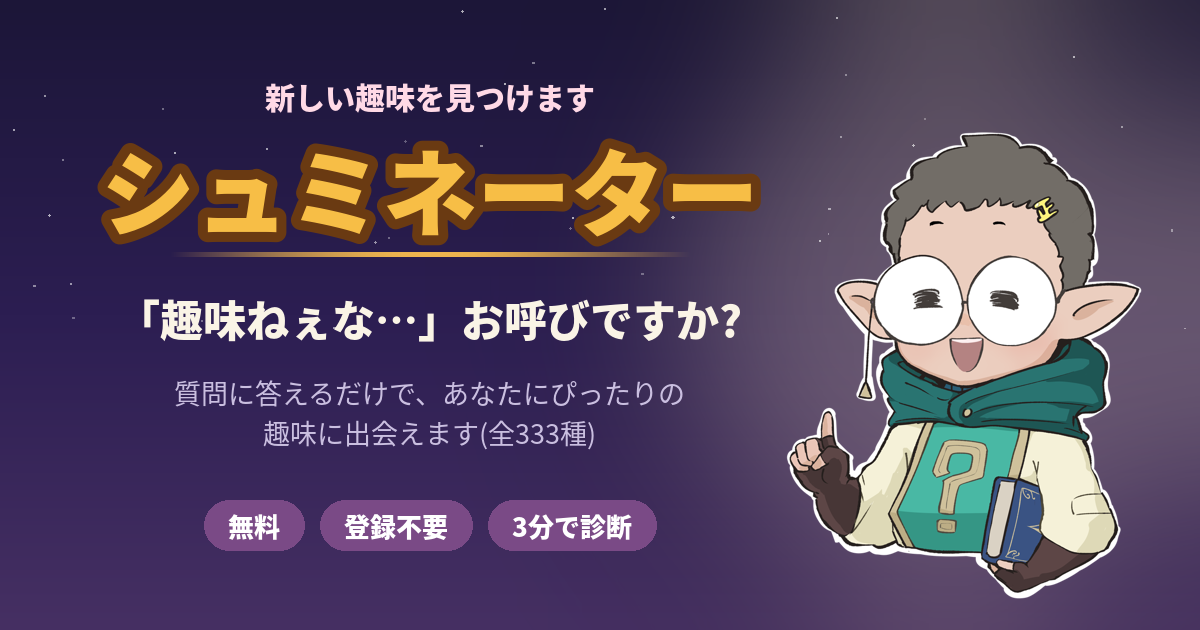
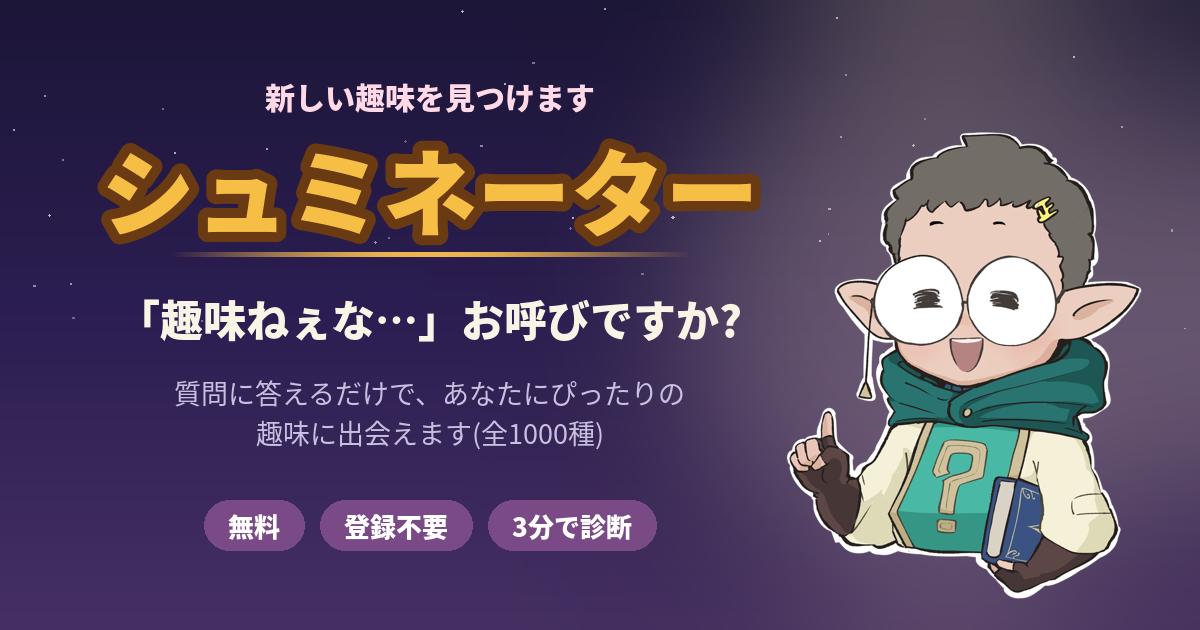
Add files via upload

Changed region(s): [[0.2158, 0.6635, 0.4933, 0.7238]]

diff --git a/solo-hobbies.html b/solo-hobbies.html
@@ -11,7 +11,7 @@
 <meta property="og:type" content="article">
 <meta property="og:title" content="一人でできる趣味30選｜家でも外でも楽しめるおすすめを厳選【趣味診断つき】">
 <meta property="og:description" content="一人で楽しめる趣味を探している人へ。家の中で静かにできるものから外で一人を満喫できるものまで、国家資格キャリアコンサルタントが30種を厳選して紹介します。">
-<meta property="og:image" content="https://doushimasho.github.io/shuminator/ogp.png?v=2">
+<meta property="og:image" content="https://doushimasho.github.io/shuminator/ogp.png?v=3">
 <meta property="og:url" content="https://doushimasho.github.io/shuminator/solo-hobbies.html">
 <meta property="og:site_name" content="シュミネーター">
 <script data-goatcounter="https://shuminator.goatcounter.com/count" async src="//gc.zgo.at/count.js"></script>
@@ -50,44 +50,45 @@ footer a{color:var(--sakura)}
 <h1>一人でできる趣味30選｜家でも外でも、ひとりを楽しむおすすめ</h1>
 <p class="lead">「一人でできる趣味が欲しい」「人と関わらずに没頭できるものを探している」——そんな人へ。一人の時間を豊かにする趣味を、静かに集中できるものを中心に厳選しました。</p>
 <p class="byline">監修:導師真ショウ(国家資格キャリアコンサルタント)。キャリア相談・不登校支援の現場での経験をもとに執筆しています。</p>
-<a class="cta" href="index.html">▶ あなたに眠っている趣味を診断する<small>無料・登録不要・333種から3分で診断</small></a>
+<a class="cta" href="index.html">▶ あなたに眠っている趣味を診断する<small>無料・登録不要・1000種から3分で診断</small></a>
 <p>一人でできる趣味の良いところは、誰かの予定に合わせる必要がなく、自分のペースで深められることです。始めるハードルも低く、思い立った日から取りかかれます。ここでは「一人で静かに楽しめる」という視点で選んだ趣味を紹介します。</p>
 <h2>一人で楽しめるおすすめの趣味</h2>
-<div class="hobby"><b>ミニ盆栽</b><span>手のひらサイズの小宇宙を育てる。数年単位で姿が変わっていく、静かで奥深い世界。</span></div>
-<div class="hobby"><b>苔テラリウム</b><span>ガラス容器の中に苔の森をつくる。世話は霧吹きだけ、机の上に置ける小さな自然。</span></div>
-<div class="hobby"><b>低山ハイキング</b><span>往復2〜3時間の低い山をのんびり登る。運動・自然・達成感が一度に手に入る。</span></div>
-<div class="hobby"><b>ソロキャンプ</b><span>ひとり焚き火を眺める贅沢。道具を少しずつ揃える過程そのものも楽しい。</span></div>
-<div class="hobby"><b>星空観察</b><span>星座アプリと椅子があれば今夜から始められる。宇宙の広さに悩みが小さくなる趣味。</span></div>
-<div class="hobby"><b>渓流釣り</b><span>山あいの川で魚と知恵比べ。自然の中に立つ時間そのものが癒しになる。</span></div>
-<div class="hobby"><b>雲観察</b><span>雲の名前を覚えると空が読めるようになる。通勤路が観察フィールドに変わる趣味。</span></div>
-<div class="hobby"><b>純喫茶めぐり</b><span>昭和の空気が残る喫茶店を訪ね歩く。クリームソーダとナポリタンの世界。</span></div>
-<div class="hobby"><b>青春18きっぷ旅</b><span>鈍行列車でどこまでも。車窓と途中下車を楽しむ、時間を贅沢に使う旅。</span></div>
-<div class="hobby"><b>サウナめぐり</b><span>全国のサウナと水風呂を開拓し「ととのい」を極める。心身のリセット習慣。</span></div>
-<div class="hobby"><b>離島めぐり</b><span>日本には400以上の有人離島がある。島ごとの文化と時間の流れを味わう旅。</span></div>
-<div class="hobby"><b>仏像鑑賞</b><span>如来と菩薩の見分けから始まる仏像の世界。お寺めぐりに「観る軸」が生まれる。</span></div>
-<div class="hobby"><b>金継ぎ</b><span>割れた器を漆と金で継いで再生させる。壊れた物が前より美しくなる日本の美学。</span></div>
-<div class="hobby"><b>刺し子</b><span>一針一針の幾何学模様が布に浮かぶ。無心になれる日本の伝統手芸。</span></div>
-<div class="hobby"><b>かぎ針編み</b><span>毛糸と針1本でコースターからぬいぐるみまで。動画を見ながら始められる。</span></div>
-<div class="hobby"><b>木のスプーン削り</b><span>一本の木からスプーンを削り出す。木くずの香りと無心の時間がたまらない。</span></div>
-<div class="hobby"><b>キャンドルづくり</b><span>蝋を溶かして色と香りをデザインする。灯した時の揺らぎまでが作品。</span></div>
-<div class="hobby"><b>梅仕事</b><span>初夏に梅を漬け、一年かけて味わう。季節の手仕事という豊かな時間。</span></div>
-<div class="hobby"><b>紅茶飲み比べ</b><span>産地と茶葉で世界一周。丁寧に淹れる時間そのものが暮らしを整える。</span></div>
-<div class="hobby"><b>中国茶</b><span>小さな茶壺で何煎も味わう茶藝の世界。一煎ごとに変わる香りの旅。</span></div>
-<div class="hobby"><b>ハンドドリップ探求</b><span>豆・挽き目・湯温・注ぎ方。変数を一つずつ検証する朝の実験。「今日の一杯」が整う日は一日が整う。</span></div>
-<div class="hobby"><b>日本茶を淹れる</b><span>急須で淹れた煎茶の甘みは、ペットボトルとは別の飲み物。湯温60度の世界を知ると戻れない。</span></div>
-<div class="hobby"><b>ハンドパン</b><span>宇宙的な音色の金属打楽器。楽譜が読めなくても叩けば「それっぽく」なる。</span></div>
-<div class="hobby"><b>カリンバ</b><span>親指ではじくオルゴールのような楽器。数千円で始められて癒し効果は絶大。</span></div>
-<div class="hobby"><b>水彩スケッチ</b><span>散歩先の風景を小さなスケッチブックに。上手さより「その場で描く」楽しさ。</span></div>
-<div class="hobby"><b>シンギングボウル</b><span>倍音の波に体ごと浸る音の瞑想。鳴らした瞬間、部屋の空気が変わる。</span></div>
-<div class="hobby"><b>スローライフゲーム</b><span>あつまれ どうぶつの森、牧場物語、Stardew Valley。畑を耕し、釣りをし、住人と暮らす癒しの箱庭。現実の疲れに効く処方箋。</span></div>
-<div class="hobby"><b>弓道</b><span>静寂の中で的と向き合う武道。姿勢と呼吸が整い、精神面への効果も大きい。</span></div>
-<div class="hobby"><b>ヨガ</b><span>呼吸と姿勢を整える心身のメンテナンス。朝5分から人生が変わる人も。</span></div>
-<div class="hobby"><b>太極拳</b><span>ゆっくり動く中国武術。運動が苦手でも始められ、続けるほど奥深い。</span></div>
-<a class="cta" href="index.html">▶ 診断で「あなたにぴったりの趣味」を見つける<small>質問に答えるだけ・3分・333種から神様が見抜きます</small></a>
-<h2>自分に一番合う「一人の趣味」を見つけるには</h2><p>ここで紹介したのは一例です。同じ「一人でできる」でも、育てる系が好きな人、集める系が好きな人、体を動かしたい人で、しっくりくる趣味は変わります。質問に答えるだけの趣味診断なら、あなたの「魅力の核」に合った一つを333種の中から見つけられます。</p>
+<div class="hobby"><a href="hobby/1.html" style="text-decoration:none"><b>ミニ盆栽</b></a><span>手のひらサイズの小宇宙を育てる。数年単位で姿が変わっていく、静かで奥深い世界。</span></div>
+<div class="hobby"><a href="hobby/2.html" style="text-decoration:none"><b>苔テラリウム</b></a><span>ガラス容器の中に苔の森をつくる。世話は霧吹きだけ、机の上に置ける小さな自然。</span></div>
+<div class="hobby"><a href="hobby/3.html" style="text-decoration:none"><b>低山ハイキング</b></a><span>往復2〜3時間の低い山をのんびり登る。運動・自然・達成感が一度に手に入る。</span></div>
+<div class="hobby"><a href="hobby/5.html" style="text-decoration:none"><b>ソロキャンプ</b></a><span>ひとり焚き火を眺める贅沢。道具を少しずつ揃える過程そのものも楽しい。</span></div>
+<div class="hobby"><a href="hobby/6.html" style="text-decoration:none"><b>星空観察</b></a><span>星座アプリと椅子があれば今夜から始められる。宇宙の広さに悩みが小さくなる趣味。</span></div>
+<div class="hobby"><a href="hobby/8.html" style="text-decoration:none"><b>渓流釣り</b></a><span>山あいの川で魚と知恵比べ。自然の中に立つ時間そのものが癒しになる。</span></div>
+<div class="hobby"><a href="hobby/23.html" style="text-decoration:none"><b>雲観察</b></a><span>雲の名前を覚えると空が読めるようになる。通勤路が観察フィールドに変わる趣味。</span></div>
+<div class="hobby"><a href="hobby/28.html" style="text-decoration:none"><b>純喫茶めぐり</b></a><span>昭和の空気が残る喫茶店を訪ね歩く。クリームソーダとナポリタンの世界。</span></div>
+<div class="hobby"><a href="hobby/30.html" style="text-decoration:none"><b>青春18きっぷ旅</b></a><span>鈍行列車でどこまでも。車窓と途中下車を楽しむ、時間を贅沢に使う旅。</span></div>
+<div class="hobby"><a href="hobby/32.html" style="text-decoration:none"><b>サウナめぐり</b></a><span>全国のサウナと水風呂を開拓し「ととのい」を極める。心身のリセット習慣。</span></div>
+<div class="hobby"><a href="hobby/34.html" style="text-decoration:none"><b>離島めぐり</b></a><span>日本には400以上の有人離島がある。島ごとの文化と時間の流れを味わう旅。</span></div>
+<div class="hobby"><a href="hobby/38.html" style="text-decoration:none"><b>仏像鑑賞</b></a><span>如来と菩薩の見分けから始まる仏像の世界。お寺めぐりに「観る軸」が生まれる。</span></div>
+<div class="hobby"><a href="hobby/47.html" style="text-decoration:none"><b>金継ぎ</b></a><span>割れた器を漆と金で継いで再生させる。壊れた物が前より美しくなる日本の美学。</span></div>
+<div class="hobby"><a href="hobby/51.html" style="text-decoration:none"><b>刺し子</b></a><span>一針一針の幾何学模様が布に浮かぶ。無心になれる日本の伝統手芸。</span></div>
+<div class="hobby"><a href="hobby/52.html" style="text-decoration:none"><b>かぎ針編み</b></a><span>毛糸と針1本でコースターからぬいぐるみまで。動画を見ながら始められる。</span></div>
+<div class="hobby"><a href="hobby/53.html" style="text-decoration:none"><b>木のスプーン削り</b></a><span>一本の木からスプーンを削り出す。木くずの香りと無心の時間がたまらない。</span></div>
+<div class="hobby"><a href="hobby/55.html" style="text-decoration:none"><b>キャンドルづくり</b></a><span>蝋を溶かして色と香りをデザインする。灯した時の揺らぎまでが作品。</span></div>
+<div class="hobby"><a href="hobby/67.html" style="text-decoration:none"><b>梅仕事</b></a><span>初夏に梅を漬け、一年かけて味わう。季節の手仕事という豊かな時間。</span></div>
+<div class="hobby"><a href="hobby/72.html" style="text-decoration:none"><b>紅茶飲み比べ</b></a><span>産地と茶葉で世界一周。丁寧に淹れる時間そのものが暮らしを整える。</span></div>
+<div class="hobby"><a href="hobby/75.html" style="text-decoration:none"><b>中国茶</b></a><span>小さな茶壺で何煎も味わう茶藝の世界。一煎ごとに変わる香りの旅。</span></div>
+<div class="hobby"><a href="hobby/88.html" style="text-decoration:none"><b>ハンドドリップ探求</b></a><span>豆・挽き目・湯温・注ぎ方。変数を一つずつ検証する朝の実験。「今日の一杯」が整う日は一日が整う。</span></div>
+<div class="hobby"><a href="hobby/89.html" style="text-decoration:none"><b>日本茶を淹れる</b></a><span>急須で淹れた煎茶の甘みは、ペットボトルとは別の飲み物。湯温60度の世界を知ると戻れない。</span></div>
+<div class="hobby"><a href="hobby/94.html" style="text-decoration:none"><b>ハンドパン</b></a><span>宇宙的な音色の金属打楽器。楽譜が読めなくても叩けば「それっぽく」なる。</span></div>
+<div class="hobby"><a href="hobby/95.html" style="text-decoration:none"><b>カリンバ</b></a><span>親指ではじくオルゴールのような楽器。数千円で始められて癒し効果は絶大。</span></div>
+<div class="hobby"><a href="hobby/100.html" style="text-decoration:none"><b>水彩スケッチ</b></a><span>散歩先の風景を小さなスケッチブックに。上手さより「その場で描く」楽しさ。</span></div>
+<div class="hobby"><a href="hobby/104.html" style="text-decoration:none"><b>シンギングボウル</b></a><span>倍音の波に体ごと浸る音の瞑想。鳴らした瞬間、部屋の空気が変わる。</span></div>
+<div class="hobby"><a href="hobby/124.html" style="text-decoration:none"><b>スローライフゲーム</b></a><span>あつまれ どうぶつの森、牧場物語、Stardew Valley。畑を耕し、釣りをし、住人と暮らす癒しの箱庭。現実の疲れに効く処方箋。</span></div>
+<div class="hobby"><a href="hobby/178.html" style="text-decoration:none"><b>弓道</b></a><span>静寂の中で的と向き合う武道。姿勢と呼吸が整い、精神面への効果も大きい。</span></div>
+<div class="hobby"><a href="hobby/180.html" style="text-decoration:none"><b>ヨガ</b></a><span>呼吸と姿勢を整える心身のメンテナンス。朝5分から人生が変わる人も。</span></div>
+<div class="hobby"><a href="hobby/181.html" style="text-decoration:none"><b>太極拳</b></a><span>ゆっくり動く中国武術。運動が苦手でも始められ、続けるほど奥深い。</span></div>
+<a class="cta" href="zukan.html">▶ 全1000種の趣味図鑑を見る<small>20ジャンル・検索つき。眺めているだけでも面白い一覧です</small></a>
+<a class="cta" href="index.html">▶ 診断で「あなたにぴったりの趣味」を見つける<small>質問に答えるだけ・3分・1000種から神様が見抜きます</small></a>
+<h2>自分に一番合う「一人の趣味」を見つけるには</h2><p>ここで紹介したのは一例です。同じ「一人でできる」でも、育てる系が好きな人、集める系が好きな人、体を動かしたい人で、しっくりくる趣味は変わります。質問に答えるだけの趣味診断なら、あなたの「魅力の核」に合った一つを1000種の中から見つけられます。</p>
 <footer>
-<p>この記事は趣味診断ゲーム「<a href="index.html">シュミネーター</a>」が提供しています。<br>質問に答えるだけで、あなたに眠る趣味を333種から見抜きます(無料・登録不要)。</p>
-<p class="rel">関連記事:<a href="hobby-finder.html">趣味の見つけ方｜「趣味がない」を抜け出す5つの方法</a></p>
+<p>この記事は趣味診断ゲーム「<a href="index.html">シュミネーター</a>」が提供しています。<br>質問に答えるだけで、あなたに眠る趣味を1000種から見抜きます(無料・登録不要)。</p>
+<p class="rel">関連:<a href="zukan.html">全1000種の趣味図鑑</a> ・ <a href="hobby-finder.html">趣味の見つけ方｜「趣味がない」を抜け出す5つの方法</a></p>
 <p style="margin-top:14px">監修:導師真ショウ ・ <a href="https://www.youtube.com/@doushimasho" target="_blank" rel="noopener">YouTube</a> ・ <a href="https://x.com/doushima_sho" target="_blank" rel="noopener">X</a></p>
 </footer>
 </div>

diff --git a/indoor-hobbies.html b/indoor-hobbies.html
@@ -11,7 +11,7 @@
 <meta property="og:type" content="article">
 <meta property="og:title" content="インドアの趣味30選｜家の中で楽しめるおすすめを厳選【趣味診断つき】">
 <meta property="og:description" content="家の中でできるインドアな趣味を探している人へ。ものづくり、観る、集めるなど、天気や季節に関係なく楽しめる趣味を国家資格キャリアコンサルタントが厳選して紹介します。">
-<meta property="og:image" content="https://doushimasho.github.io/shuminator/ogp.png?v=2">
+<meta property="og:image" content="https://doushimasho.github.io/shuminator/ogp.png?v=3">
 <meta property="og:url" content="https://doushimasho.github.io/shuminator/indoor-hobbies.html">
 <meta property="og:site_name" content="シュミネーター">
 <script data-goatcounter="https://shuminator.goatcounter.com/count" async src="//gc.zgo.at/count.js"></script>
@@ -50,44 +50,45 @@ footer a{color:var(--sakura)}
 <h1>インドアの趣味30選｜家の中で楽しめるおすすめ</h1>
 <p class="lead">「家で楽しめる趣味が欲しい」「外に出ずに没頭できるものを探している」——そんな人へ。天気や季節に左右されず、家の中で楽しめるインドアな趣味を厳選しました。</p>
 <p class="byline">監修:導師真ショウ(国家資格キャリアコンサルタント)。キャリア相談・不登校支援の現場での経験をもとに執筆しています。</p>
-<a class="cta" href="index.html">▶ あなたに眠っている趣味を診断する<small>無料・登録不要・333種から3分で診断</small></a>
+<a class="cta" href="index.html">▶ あなたに眠っている趣味を診断する<small>無料・登録不要・1000種から3分で診断</small></a>
 <p>インドアな趣味は、天気や季節に関係なく、いつでも自分のペースで楽しめるのが魅力です。ものづくり系、鑑賞系、集める系など、家の中でも世界は無限に広がります。</p>
 <h2>家の中で楽しめるおすすめの趣味</h2>
-<div class="hobby"><b>エアプランツ</b><span>土がいらない不思議な植物。流木や壁に飾って、部屋を小さなジャングルに。</span></div>
-<div class="hobby"><b>サウナめぐり</b><span>全国のサウナと水風呂を開拓し「ととのい」を極める。心身のリセット習慣。</span></div>
-<div class="hobby"><b>工場夜景鑑賞</b><span>光る配管とプラントは巨大なSF世界。撮影スポット探しから楽しい。</span></div>
-<div class="hobby"><b>商店街食べ歩き</b><span>昔ながらの商店街でコロッケや甘味を食べ歩く。安くて幸せな週末の冒険。</span></div>
-<div class="hobby"><b>古本屋めぐり</b><span>棚の背表紙をたどる宝探し。一期一会の一冊との出会いが人生を変えることも。</span></div>
-<div class="hobby"><b>美術館めぐり</b><span>一枚の絵の前で立ち尽くす時間。企画展を追いかけると一年中楽しめる。</span></div>
-<div class="hobby"><b>仏像鑑賞</b><span>如来と菩薩の見分けから始まる仏像の世界。お寺めぐりに「観る軸」が生まれる。</span></div>
-<div class="hobby"><b>能・歌舞伎鑑賞</b><span>一度観ると価値観が変わる日本の古典芸能。初心者向けの一幕見席なら数千円から。</span></div>
-<div class="hobby"><b>名画座めぐり</b><span>旧作を大スクリーンで観られる街の映画館。二本立て1500円の贅沢な休日。</span></div>
-<div class="hobby"><b>レジンアクセサリー</b><span>透明樹脂に花やラメを閉じ込める。作った作品はフリマアプリで販売もできる。</span></div>
-<div class="hobby"><b>革小物づくり</b><span>本革を裁ち、縫い、育てる。使うほど味が出る一生モノを自分の手で。</span></div>
-<div class="hobby"><b>消しゴムはんこ</b><span>彫刻刀ひとつで始められる小さな版画。年賀状や手帳がぐっと楽しくなる。</span></div>
-<div class="hobby"><b>羊毛フェルト</b><span>羊毛をチクチク刺して動物を形づくる。もふもふの生き物を生み出す喜び。</span></div>
-<div class="hobby"><b>手びねり陶芸</b><span>ろくろがなくても粘土と手で器は作れる。自作の茶碗で飲むお茶は格別。</span></div>
-<div class="hobby"><b>金継ぎ</b><span>割れた器を漆と金で継いで再生させる。壊れた物が前より美しくなる日本の美学。</span></div>
-<div class="hobby"><b>ミニチュアフード</b><span>粘土で本物そっくりの小さな食べ物を作る。SNSでの人気も高いジャンル。</span></div>
-<div class="hobby"><b>ガンプラ</b><span>素組みだけでも十分カッコいい。塗装・改造と深みは無限、大人が本気になれる趣味。</span></div>
-<div class="hobby"><b>ジオラマ制作</b><span>小さな世界の情景を丸ごと作る。鉄道、戦場、日常の路地裏──題材は自由。</span></div>
-<div class="hobby"><b>刺し子</b><span>一針一針の幾何学模様が布に浮かぶ。無心になれる日本の伝統手芸。</span></div>
-<div class="hobby"><b>かぎ針編み</b><span>毛糸と針1本でコースターからぬいぐるみまで。動画を見ながら始められる。</span></div>
-<div class="hobby"><b>ハーバリウム</b><span>ガラス瓶の中に花を閉じ込めるインテリア。プレゼントにも喜ばれる。</span></div>
-<div class="hobby"><b>キャンドルづくり</b><span>蝋を溶かして色と香りをデザインする。灯した時の揺らぎまでが作品。</span></div>
-<div class="hobby"><b>複雑系折り紙</b><span>一枚の正方形から龍や昆虫を折り出す数学的アート。設計図の世界は超本格派。</span></div>
-<div class="hobby"><b>ボードゲーム会</b><span>世界には数万種のボドゲがある。友人と集まる口実として最強の趣味。</span></div>
-<div class="hobby"><b>謎解きゲーム</b><span>リアル脱出や持ち帰り謎。ひらめいた瞬間の脳汁は一度知ると戻れない。</span></div>
-<div class="hobby"><b>フィルムカメラ</b><span>撮れる枚数に限りがあるからこそ一枚が真剣になる。現像を待つ時間も含めて趣味。</span></div>
-<div class="hobby"><b>鉄道模型</b><span>Nゲージの車両と情景を集めて走らせる。部屋に自分だけの鉄道会社をつくる趣味。</span></div>
-<div class="hobby"><b>ドールハウス</b><span>小さな家具と部屋を組み立てる、大人の秘密基地づくり。明かりを灯した瞬間が最高。</span></div>
-<div class="hobby"><b>ぬか床づくり</b><span>毎日かき混ぜて育てる「生きた漬物」。自分だけの味に育っていく相棒的趣味。</span></div>
-<div class="hobby"><b>自家焙煎コーヒー</b><span>生豆を自分で煎ると、コーヒーは別の飲み物になる。香りの実験室を台所に。</span></div>
-<a class="cta" href="index.html">▶ 診断で「あなたにぴったりの趣味」を見つける<small>質問に答えるだけ・3分・333種から神様が見抜きます</small></a>
-<h2>自分に合う「インドア趣味」を見つけるには</h2><p>インドアの趣味と一口に言っても、手を動かして作るのが好きな人、じっくり観るのが好きな人、コレクションを楽しみたい人で、向いているものは違います。趣味診断で、あなたにぴったりの一つを333種から見つけてみてください。</p>
+<div class="hobby"><a href="hobby/18.html" style="text-decoration:none"><b>エアプランツ</b></a><span>土がいらない不思議な植物。流木や壁に飾って、部屋を小さなジャングルに。</span></div>
+<div class="hobby"><a href="hobby/32.html" style="text-decoration:none"><b>サウナめぐり</b></a><span>全国のサウナと水風呂を開拓し「ととのい」を極める。心身のリセット習慣。</span></div>
+<div class="hobby"><a href="hobby/33.html" style="text-decoration:none"><b>工場夜景鑑賞</b></a><span>光る配管とプラントは巨大なSF世界。撮影スポット探しから楽しい。</span></div>
+<div class="hobby"><a href="hobby/35.html" style="text-decoration:none"><b>商店街食べ歩き</b></a><span>昔ながらの商店街でコロッケや甘味を食べ歩く。安くて幸せな週末の冒険。</span></div>
+<div class="hobby"><a href="hobby/36.html" style="text-decoration:none"><b>古本屋めぐり</b></a><span>棚の背表紙をたどる宝探し。一期一会の一冊との出会いが人生を変えることも。</span></div>
+<div class="hobby"><a href="hobby/37.html" style="text-decoration:none"><b>美術館めぐり</b></a><span>一枚の絵の前で立ち尽くす時間。企画展を追いかけると一年中楽しめる。</span></div>
+<div class="hobby"><a href="hobby/38.html" style="text-decoration:none"><b>仏像鑑賞</b></a><span>如来と菩薩の見分けから始まる仏像の世界。お寺めぐりに「観る軸」が生まれる。</span></div>
+<div class="hobby"><a href="hobby/39.html" style="text-decoration:none"><b>能・歌舞伎鑑賞</b></a><span>一度観ると価値観が変わる日本の古典芸能。初心者向けの一幕見席なら数千円から。</span></div>
+<div class="hobby"><a href="hobby/40.html" style="text-decoration:none"><b>名画座めぐり</b></a><span>旧作を大スクリーンで観られる街の映画館。二本立て1500円の贅沢な休日。</span></div>
+<div class="hobby"><a href="hobby/42.html" style="text-decoration:none"><b>レジンアクセサリー</b></a><span>透明樹脂に花やラメを閉じ込める。作った作品はフリマアプリで販売もできる。</span></div>
+<div class="hobby"><a href="hobby/43.html" style="text-decoration:none"><b>革小物づくり</b></a><span>本革を裁ち、縫い、育てる。使うほど味が出る一生モノを自分の手で。</span></div>
+<div class="hobby"><a href="hobby/44.html" style="text-decoration:none"><b>消しゴムはんこ</b></a><span>彫刻刀ひとつで始められる小さな版画。年賀状や手帳がぐっと楽しくなる。</span></div>
+<div class="hobby"><a href="hobby/45.html" style="text-decoration:none"><b>羊毛フェルト</b></a><span>羊毛をチクチク刺して動物を形づくる。もふもふの生き物を生み出す喜び。</span></div>
+<div class="hobby"><a href="hobby/46.html" style="text-decoration:none"><b>手びねり陶芸</b></a><span>ろくろがなくても粘土と手で器は作れる。自作の茶碗で飲むお茶は格別。</span></div>
+<div class="hobby"><a href="hobby/47.html" style="text-decoration:none"><b>金継ぎ</b></a><span>割れた器を漆と金で継いで再生させる。壊れた物が前より美しくなる日本の美学。</span></div>
+<div class="hobby"><a href="hobby/48.html" style="text-decoration:none"><b>ミニチュアフード</b></a><span>粘土で本物そっくりの小さな食べ物を作る。SNSでの人気も高いジャンル。</span></div>
+<div class="hobby"><a href="hobby/49.html" style="text-decoration:none"><b>ガンプラ</b></a><span>素組みだけでも十分カッコいい。塗装・改造と深みは無限、大人が本気になれる趣味。</span></div>
+<div class="hobby"><a href="hobby/50.html" style="text-decoration:none"><b>ジオラマ制作</b></a><span>小さな世界の情景を丸ごと作る。鉄道、戦場、日常の路地裏──題材は自由。</span></div>
+<div class="hobby"><a href="hobby/51.html" style="text-decoration:none"><b>刺し子</b></a><span>一針一針の幾何学模様が布に浮かぶ。無心になれる日本の伝統手芸。</span></div>
+<div class="hobby"><a href="hobby/52.html" style="text-decoration:none"><b>かぎ針編み</b></a><span>毛糸と針1本でコースターからぬいぐるみまで。動画を見ながら始められる。</span></div>
+<div class="hobby"><a href="hobby/54.html" style="text-decoration:none"><b>ハーバリウム</b></a><span>ガラス瓶の中に花を閉じ込めるインテリア。プレゼントにも喜ばれる。</span></div>
+<div class="hobby"><a href="hobby/55.html" style="text-decoration:none"><b>キャンドルづくり</b></a><span>蝋を溶かして色と香りをデザインする。灯した時の揺らぎまでが作品。</span></div>
+<div class="hobby"><a href="hobby/56.html" style="text-decoration:none"><b>複雑系折り紙</b></a><span>一枚の正方形から龍や昆虫を折り出す数学的アート。設計図の世界は超本格派。</span></div>
+<div class="hobby"><a href="hobby/57.html" style="text-decoration:none"><b>ボードゲーム会</b></a><span>世界には数万種のボドゲがある。友人と集まる口実として最強の趣味。</span></div>
+<div class="hobby"><a href="hobby/58.html" style="text-decoration:none"><b>謎解きゲーム</b></a><span>リアル脱出や持ち帰り謎。ひらめいた瞬間の脳汁は一度知ると戻れない。</span></div>
+<div class="hobby"><a href="hobby/59.html" style="text-decoration:none"><b>フィルムカメラ</b></a><span>撮れる枚数に限りがあるからこそ一枚が真剣になる。現像を待つ時間も含めて趣味。</span></div>
+<div class="hobby"><a href="hobby/60.html" style="text-decoration:none"><b>鉄道模型</b></a><span>Nゲージの車両と情景を集めて走らせる。部屋に自分だけの鉄道会社をつくる趣味。</span></div>
+<div class="hobby"><a href="hobby/61.html" style="text-decoration:none"><b>ドールハウス</b></a><span>小さな家具と部屋を組み立てる、大人の秘密基地づくり。明かりを灯した瞬間が最高。</span></div>
+<div class="hobby"><a href="hobby/62.html" style="text-decoration:none"><b>ぬか床づくり</b></a><span>毎日かき混ぜて育てる「生きた漬物」。自分だけの味に育っていく相棒的趣味。</span></div>
+<div class="hobby"><a href="hobby/63.html" style="text-decoration:none"><b>自家焙煎コーヒー</b></a><span>生豆を自分で煎ると、コーヒーは別の飲み物になる。香りの実験室を台所に。</span></div>
+<a class="cta" href="zukan.html">▶ 全1000種の趣味図鑑を見る<small>20ジャンル・検索つき。眺めているだけでも面白い一覧です</small></a>
+<a class="cta" href="index.html">▶ 診断で「あなたにぴったりの趣味」を見つける<small>質問に答えるだけ・3分・1000種から神様が見抜きます</small></a>
+<h2>自分に合う「インドア趣味」を見つけるには</h2><p>インドアの趣味と一口に言っても、手を動かして作るのが好きな人、じっくり観るのが好きな人、コレクションを楽しみたい人で、向いているものは違います。趣味診断で、あなたにぴったりの一つを1000種から見つけてみてください。</p>
 <footer>
-<p>この記事は趣味診断ゲーム「<a href="index.html">シュミネーター</a>」が提供しています。<br>質問に答えるだけで、あなたに眠る趣味を333種から見抜きます(無料・登録不要)。</p>
-<p class="rel">関連記事:<a href="hobby-finder.html">趣味の見つけ方｜「趣味がない」を抜け出す5つの方法</a></p>
+<p>この記事は趣味診断ゲーム「<a href="index.html">シュミネーター</a>」が提供しています。<br>質問に答えるだけで、あなたに眠る趣味を1000種から見抜きます(無料・登録不要)。</p>
+<p class="rel">関連:<a href="zukan.html">全1000種の趣味図鑑</a> ・ <a href="hobby-finder.html">趣味の見つけ方｜「趣味がない」を抜け出す5つの方法</a></p>
 <p style="margin-top:14px">監修:導師真ショウ ・ <a href="https://www.youtube.com/@doushimasho" target="_blank" rel="noopener">YouTube</a> ・ <a href="https://x.com/doushima_sho" target="_blank" rel="noopener">X</a></p>
 </footer>
 </div>

diff --git a/hobby-finder.html b/hobby-finder.html
@@ -12,7 +12,7 @@
 <meta property="og:type" content="article">
 <meta property="og:title" content="趣味の見つけ方｜「趣味がない」を抜け出す5つの方法【キャリアコンサルタント監修】">
 <meta property="og:description" content="「趣味がない」を抜け出すための、趣味が見つからない理由と5つの具体的な見つけ方。国家資格キャリアコンサルタントが解説します。">
-<meta property="og:image" content="https://doushimasho.github.io/shuminator/ogp.png?v=2">
+<meta property="og:image" content="https://doushimasho.github.io/shuminator/ogp.png?v=3">
 <meta property="og:url" content="https://doushimasho.github.io/shuminator/hobby-finder.html">
 <meta property="og:site_name" content="シュミネーター">
 <meta property="og:locale" content="ja_JP">
@@ -82,7 +82,7 @@ footer a{color:var(--sakura)}
 <p class="lead">「趣味がない」「休日にやることがない」「新しい趣味が欲しいけど何を始めればいいかわからない」——そんな人へ。国家資格キャリアコンサルタントが、趣味が見つからない理由と、見つけるための具体的な方法を解説します。</p>
 <p class="byline">監修:導師真ショウ(国家資格キャリアコンサルタント)。キャリア相談・不登校支援の現場で「趣味がない」という悩みに数多く向き合ってきた経験をもとに執筆しています。</p>
 
-<a class="cta" href="index.html">▶ 3分でわかる「あなたに眠っている趣味」を診断する<small>無料・登録不要・333種の趣味から診断します</small></a>
+<a class="cta" href="index.html">▶ 3分でわかる「あなたに眠っている趣味」を診断する<small>無料・登録不要・1000種の趣味から診断します</small></a>
 
 <h2>なぜ「趣味がない」人が多いのか</h2>
 <p>結論から言うと、趣味がないのは能力や性格の問題ではありません。多くの場合、原因はシンプルで——<strong>知らない趣味は、探せない</strong>からです。</p>
@@ -107,10 +107,10 @@ footer a{color:var(--sakura)}
 
 <div class="card">
 <h3>タイプ別・おすすめの趣味の例</h3>
-<p><strong>一人で静かに楽しみたい人:</strong>苔テラリウム、ミニ盆栽、ソロキャンプ、星空観察、純喫茶めぐり、仏像鑑賞、渓流釣り</p>
-<p><strong>人と関わって楽しみたい人:</strong>ボードゲーム会、TRPG、人狼ゲーム、ポッドキャスト配信、プロ野球観戦</p>
-<p><strong>お金をかけずに始めたい人:</strong>低山ハイキング、ビーチコーミング、雲観察、廃線跡歩き、朗読、地形図さんぽ</p>
-<p style="font-size:14px;color:#7a4a86;margin-top:14px">※これらはほんの一例です。あなたに合う趣味を333種から診断で見つけられます。</p>
+<p><strong>一人で静かに楽しみたい人:</strong><a href="hobby/2.html">苔テラリウム</a>、<a href="hobby/1.html">ミニ盆栽</a>、<a href="hobby/5.html">ソロキャンプ</a>、<a href="hobby/6.html">星空観察</a>、<a href="hobby/28.html">純喫茶めぐり</a>、<a href="hobby/38.html">仏像鑑賞</a>、<a href="hobby/8.html">渓流釣り</a></p>
+<p><strong>人と関わって楽しみたい人:</strong><a href="hobby/57.html">ボードゲーム会</a>、<a href="hobby/146.html">TRPG</a>、<a href="hobby/147.html">人狼ゲーム</a>、<a href="hobby/106.html">ポッドキャスト配信</a>、<a href="hobby/150.html">プロ野球観戦</a></p>
+<p><strong>お金をかけずに始めたい人:</strong><a href="hobby/3.html">低山ハイキング</a>、<a href="hobby/7.html">ビーチコーミング</a>、<a href="hobby/23.html">雲観察</a>、廃線跡歩き、朗読、<a href="hobby/240.html">地形図さんぽ</a></p>
+<p style="font-size:14px;color:#7a4a86;margin-top:14px">※これらはほんの一例です。あなたに合う趣味を1000種から診断で見つけられます。</p>
 </div>
 
 <h2>趣味探しで「やってはいけないこと」</h2>
@@ -124,7 +124,8 @@ footer a{color:var(--sakura)}
 <h2>趣味は、人生にどう効くのか</h2>
 <p>キャリアの現場から言うと、趣味は余暇の飾りではありません。第一に<strong>自己理解</strong>——何が好きかは、自分がどういう人間かの手がかりになります。第二に<strong>人との接点</strong>——共通の関心はコミュニティへの入り口になります。第三に<strong>心と生活の支え</strong>——楽しみがあることは、しんどい時期を乗り越える力になります。趣味を見つけることは、人生の質そのものを引き上げる取り組みです。</p>
 
-<a class="cta" href="index.html">▶ あなたに眠っている趣味を診断してみる<small>質問に答えるだけ・3分・333種から神様が見抜きます</small></a>
+<a class="cta" href="zukan.html">▶ 全1000種の趣味図鑑を見る<small>20ジャンル・検索つき。眺めているだけでも面白い一覧です</small></a>
+<a class="cta" href="index.html">▶ あなたに眠っている趣味を診断してみる<small>質問に答えるだけ・3分・1000種から神様が見抜きます</small></a>
 
 <h2 id="faq">よくある質問</h2>
 <dl class="faq">
@@ -139,8 +140,8 @@ footer a{color:var(--sakura)}
 </dl>
 
 <footer>
-<p class="rel">関連記事:<a href="solo-hobbies.html">一人でできる趣味30選</a> ・ <a href="indoor-hobbies.html">インドアの趣味30選</a></p>
-<p>この記事は、趣味診断ゲーム「<a href="index.html">シュミネーター</a>」が提供しています。<br>質問に答えるだけで、神様「どうしましょう」があなたに眠る趣味を333種から見抜きます(無料・登録不要)。</p>
+<p class="rel">関連:<a href="zukan.html">全1000種の趣味図鑑</a> ・ <a href="solo-hobbies.html">一人でできる趣味30選</a> ・ <a href="indoor-hobbies.html">インドアの趣味30選</a></p>
+<p>この記事は、趣味診断ゲーム「<a href="index.html">シュミネーター</a>」が提供しています。<br>質問に答えるだけで、神様「どうしましょう」があなたに眠る趣味を1000種から見抜きます(無料・登録不要)。</p>
 <a class="backlink" href="index.html">▶ シュミネーターで趣味を診断する</a>
 <p style="margin-top:16px">監修:導師真ショウ(国家資格キャリアコンサルタント/VTuber)<br><a href="https://www.youtube.com/@doushimasho" target="_blank" rel="noopener">YouTube</a> ・ <a href="https://x.com/doushima_sho" target="_blank" rel="noopener">X</a></p>
 </footer>

diff --git a/index.html b/index.html
@@ -14,7 +14,7 @@
 <meta property="og:type" content="website">
 <meta property="og:title" content="シュミネーター|趣味ねぇな…お呼びですか?">
 <meta property="og:description" content="質問に答えるだけで、神様「どうしましょう」があなたに眠る趣味を見抜きます。全1000種の趣味から、あなたにぴったりの一つを。">
-<meta property="og:image" content="https://doushimasho.github.io/shuminator/ogp.png?v=2">
+<meta property="og:image" content="https://doushimasho.github.io/shuminator/ogp.png?v=3">
 <meta property="og:image:width" content="1200">
 <meta property="og:image:height" content="630">
 <meta property="og:url" content="https://doushimasho.github.io/shuminator/">
@@ -24,7 +24,7 @@
 <meta name="twitter:card" content="summary_large_image">
 <meta name="twitter:title" content="シュミネーター|趣味ねぇな…お呼びですか?">
 <meta name="twitter:description" content="神様「どうしましょう」があなたに眠る趣味を見抜きます。あなたは何を言い当てられる?">
-<meta name="twitter:image" content="https://doushimasho.github.io/shuminator/ogp.png?v=2">
+<meta name="twitter:image" content="https://doushimasho.github.io/shuminator/ogp.png?v=3">
 <!-- アクセス解析(GoatCounter)。登録コードを変えた場合は下の shuminator を差し替え -->
 <script data-goatcounter="https://shuminator.goatcounter.com/count" async src="//gc.zgo.at/count.js"></script>
 <link rel="preconnect" href="https://fonts.googleapis.com">

diff --git a/build_pages.js b/build_pages.js
@@ -129,7 +129,7 @@ function head(title, desc, canonical, extraJsonLd) {
 <meta property="og:type" content="article">
 <meta property="og:title" content="${esc(title)}">
 <meta property="og:description" content="${esc(desc)}">
-<meta property="og:image" content="${SITE}/ogp.png?v=2">
+<meta property="og:image" content="${SITE}/ogp.png?v=3">
 <meta property="og:url" content="${canonical}">
 <meta property="og:site_name" content="シュミネーター">
 <link rel="icon" type="image/png" sizes="32x32" href="${SITE}/favicon-32.png">
